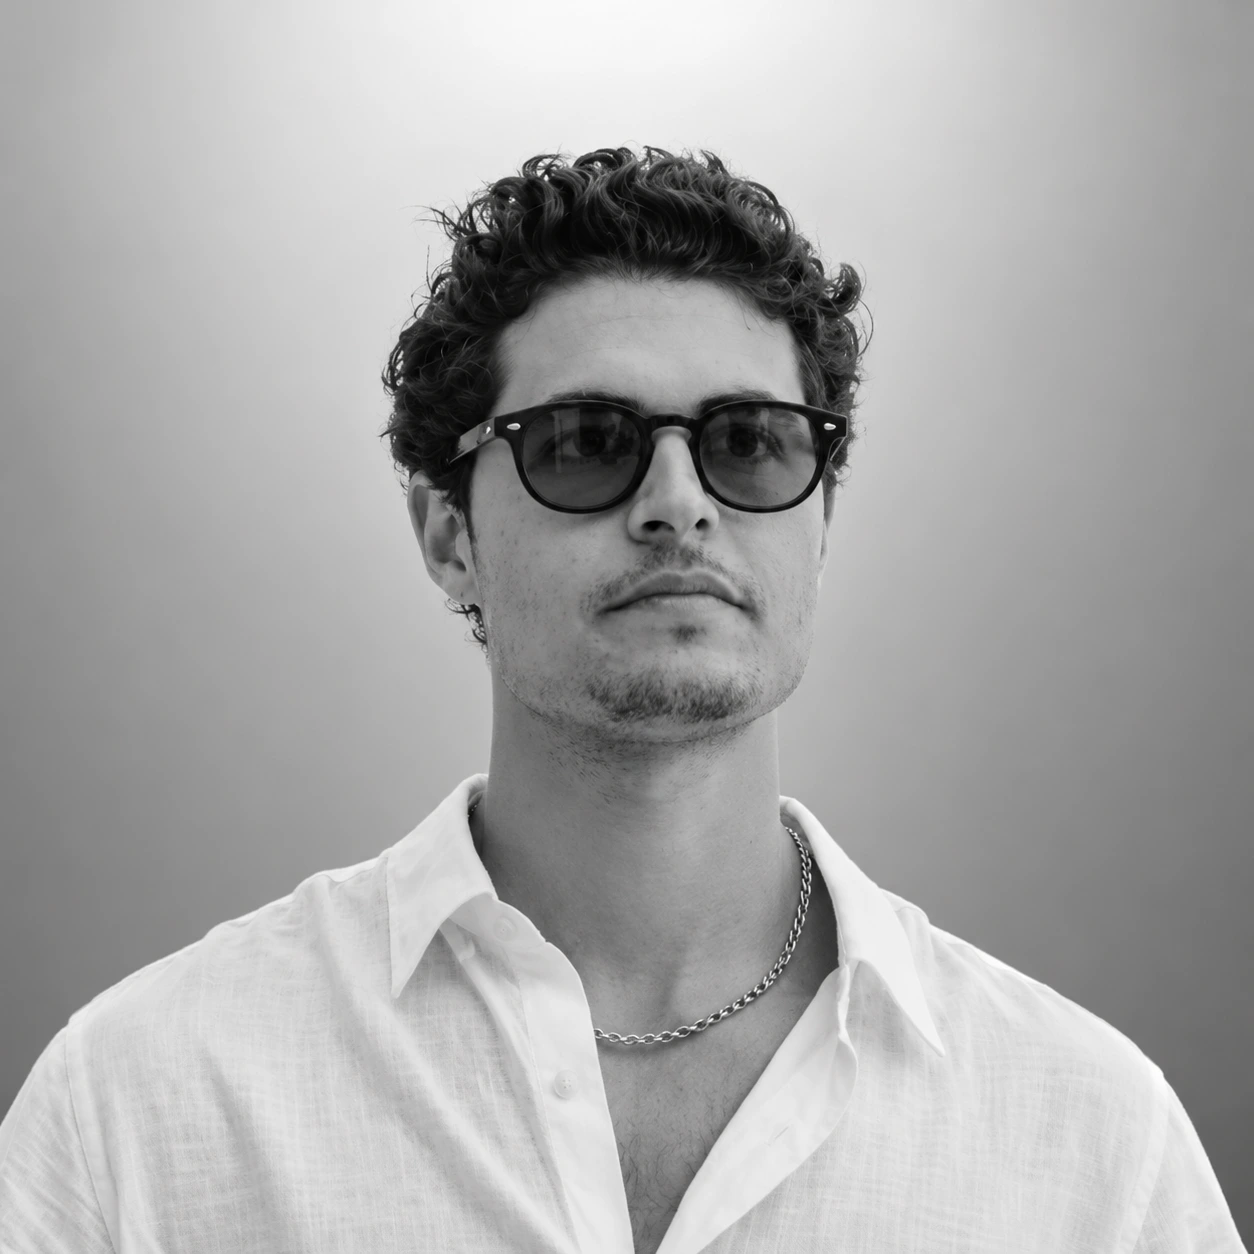
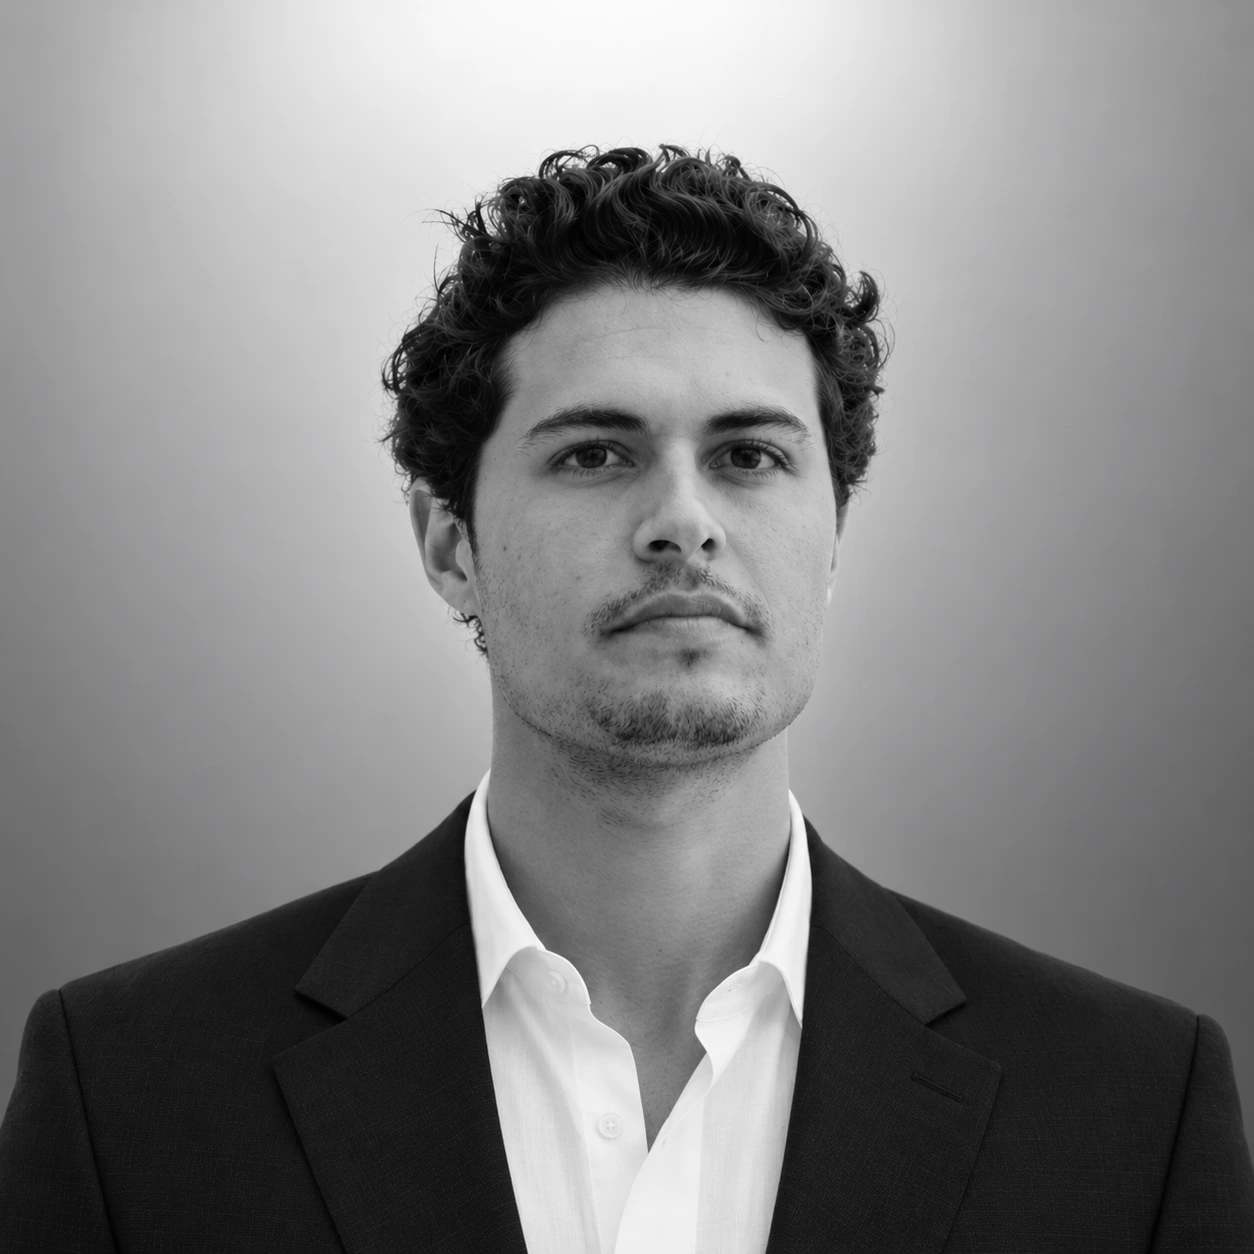
Re-shoot Bernardo's and Bruno's portraits to match the set
The first pass of generative re-shoots matched the BACKDROP across the row
but not the DRESS. Bernardo came back in a white shirt with a chain and
sunglasses, Bruno in a dark open-collar shirt at a three-quarter turn — four
studio portraits that still read as four different occasions. Both are now
square-on in a dark jacket over a white shirt, which is what Lev and Lucas
were already wearing.

Both faceX values came back to 0.5 with the new masters. Bernardo carried
0.51 and Bruno 0.55, and Bruno's existed only because his old frame was a
three-quarter turn sitting right of centre. Measured rather than eyeballed:
the centroid of the dark pixels in each master's hair band (y 15-32%) is at
0.504 / 0.485 / 0.498 / 0.539 of the width, so a centred crop puts every head
within a couple of percent of the middle. Re-measure when a master is
replaced; do not carry the old number over.

Still four AI-generated likenesses of four named people, and still an open
item in docs/COPY-REVIEW.md — each of them should see their own before
launch. Tatjana's remains the untouched original.

diff --git a/README.md b/README.md
@@ -517,7 +517,7 @@ The **name-to-file mapping for the originals was read, not guessed.** They arriv
 
 **Every output is greyscale**, set in the script rather than by a CSS filter on the page, so what ships is what renders and it keeps applying if a master is replaced.
 
-**Only the horizontal is cropped, except for Tatjana.** The four re-shoots are square, so top and bottom stay whole and `faceX` decides which side loses more of the trim — Bruno Erckmam's is the one that is not square-on, a three-quarter turn sitting right of centre, so his crop follows him. Hers is a wider shot: her head fills about 32% of the frame against the others' ~40%, so at the same crop she read as standing further back than everyone else, which was the last thing breaking the row. **`zoom` exists for her alone.** 0.8 pulls her in to match, and it costs resolution rather than inventing any — the crop lands at 512×640 and `withoutEnlargement` leaves it there, about 6% under the card's 2× DPR ideal. A re-shoot of hers would close that properly; upscaling would only fake it.
+**Only the horizontal is cropped, except for Tatjana.** The four re-shoots are square, so top and bottom stay whole and `faceX` decides which side loses more of the trim. All four now sit at `0.5`: the centroid of the dark pixels in each master's hair band (y 15–32%) measures 0.504 / 0.485 / 0.498 / 0.539, so a centred crop puts every head within a couple of percent of the middle. Bernardo carried 0.51 and Bruno 0.55 against their *first* re-shoots, and both came back to centre when the masters were replaced — **re-measure when a master changes rather than carrying its old number over.** Hers is a wider shot: her head fills about 32% of the frame against the others' ~40%, so at the same crop she read as standing further back than everyone else, which was the last thing breaking the row. **`zoom` exists for her alone.** 0.8 pulls her in to match, and it costs resolution rather than inventing any — the crop lands at 512×640 and `withoutEnlargement` leaves it there, about 6% under the card's 2× DPR ideal. A re-shoot of hers would close that properly; upscaling would only fake it.
 
 **If a replaced photo does not appear, the dev image cache is at `.next/dev/cache/images`.** Not `.next/cache/images` — Next 16 moved it, and the old path no longer exists, so deleting it silently does nothing. The optimizer keys on `(url, width, quality)` and the URL does not change when the file behind it does, so re-running this script leaves the dev server serving the previous crop indefinitely. **Restarting `next dev` does not clear it either** — the cache is on disk, not in memory. `rm -rf .next/dev/cache/images` does. The tell is the served image's dimensions: fetch `/_next/image?url=%2Fteam%2F<slug>.webp&w=640&q=75` and compare against the file, because a stale entry keeps the old source's aspect.
 
@@ -593,6 +593,8 @@ already 75% on screen before a pixel is scrolled.
 There are four client components — `nav`, `track-record`, `case-study-grid`, `contact-form` — and one rule about the first three: **external state is read with `useSyncExternalStore`, not mirrored into an effect.** `contact-form` is exempt because none of its state is external; see the `/get-in-touch` section above. Scroll offset (`nav`) and `prefers-reduced-motion` (`track-record`) both work that way, with a `false` server snapshot that matches the pre-hydration markup. The nav closes its mobile sheet on route change by adjusting state during render, not in an effect.
 
 That isn't stylistic — `npm run lint` enforces it via `react-hooks/set-state-in-effect`, and lint is clean. Keep it that way.
+
+**Bernardo and Bruno were then regenerated a second time**, later the same day, and the reason generalises: the first pass matched the *backdrop* across the set but not the *dress*. Bernardo came back in a white shirt with a chain and sunglasses, Bruno in a dark open-collar shirt at a three-quarter turn — four studio portraits that still read as four different occasions. Both are now square-on in a dark jacket over a white shirt, which is what Lev and Lucas were already wearing. **Match the dress and the angle as well as the ground; the backdrop alone does not make a set.**
 
 `track-record.tsx` shows financial figures counting up. It must never be left mid-count: the animation snaps to the true value on cleanup (rAF is throttled in background tabs and can be torn down mid-flight), and values under 10 skip the count entirely.
 

diff --git a/docs/COPY-REVIEW.md b/docs/COPY-REVIEW.md
@@ -371,7 +371,7 @@ affects one button instead of nine.
    Two notes: that Fundraisr page runs on LeadConnector (GoHighLevel), not Calendly — so if it becomes the scheduler the embed has to be rebuilt, not re-pointed. And the old Calendly event is **not** dead as previously reported: `capital-raise-demo-call-ac-clone` still returns 200 and resolves to "Capital Raise | Strategy Call". If that is the one you want, say so and I will embed it properly. The slug still reads like a duplicate.
 4. **Team photographs — FOUR OF THE FIVE ARE NOW AI-GENERATED.** This is the item on this list most worth a decision, because it is the only place the site shows something that is not a photograph and does not say so.
 
-   The five supplied images were five different shoots and never read as a set. Four were regenerated (ChatGPT, 7 Sep 2026) from the originals onto the plain studio backdrop the fifth already had: **Bernardo Almeida, Lev Valestkiy, Bruno Erckmam and Lucas Barrozo**. **Tatjana Sotirovik's is the untouched original.** The masters and the full provenance are in `docs/assets/team/` and the header of `scripts/optimize-team-photos.mjs`; the original photographs are in this directory's git history.
+   The five supplied images were five different shoots and never read as a set. Four were regenerated (ChatGPT, 7 Sep 2026) from the originals onto the plain studio backdrop the fifth already had: **Bernardo Almeida, Lev Valestkiy, Bruno Erckmam and Lucas Barrozo**. **Tatjana Sotirovik's is the untouched original.** Bernardo's and Bruno's were replaced a second time the same day, which closed the last thing breaking the row: the first pass matched the backdrop but not the dress, so all four are now square-on in a dark jacket over a white shirt. The masters and the full provenance are in `docs/assets/team/` and the header of `scripts/optimize-team-photos.mjs`; every earlier version, including the original photographs, is in that directory's git history.
 
    Three things to settle:
 
